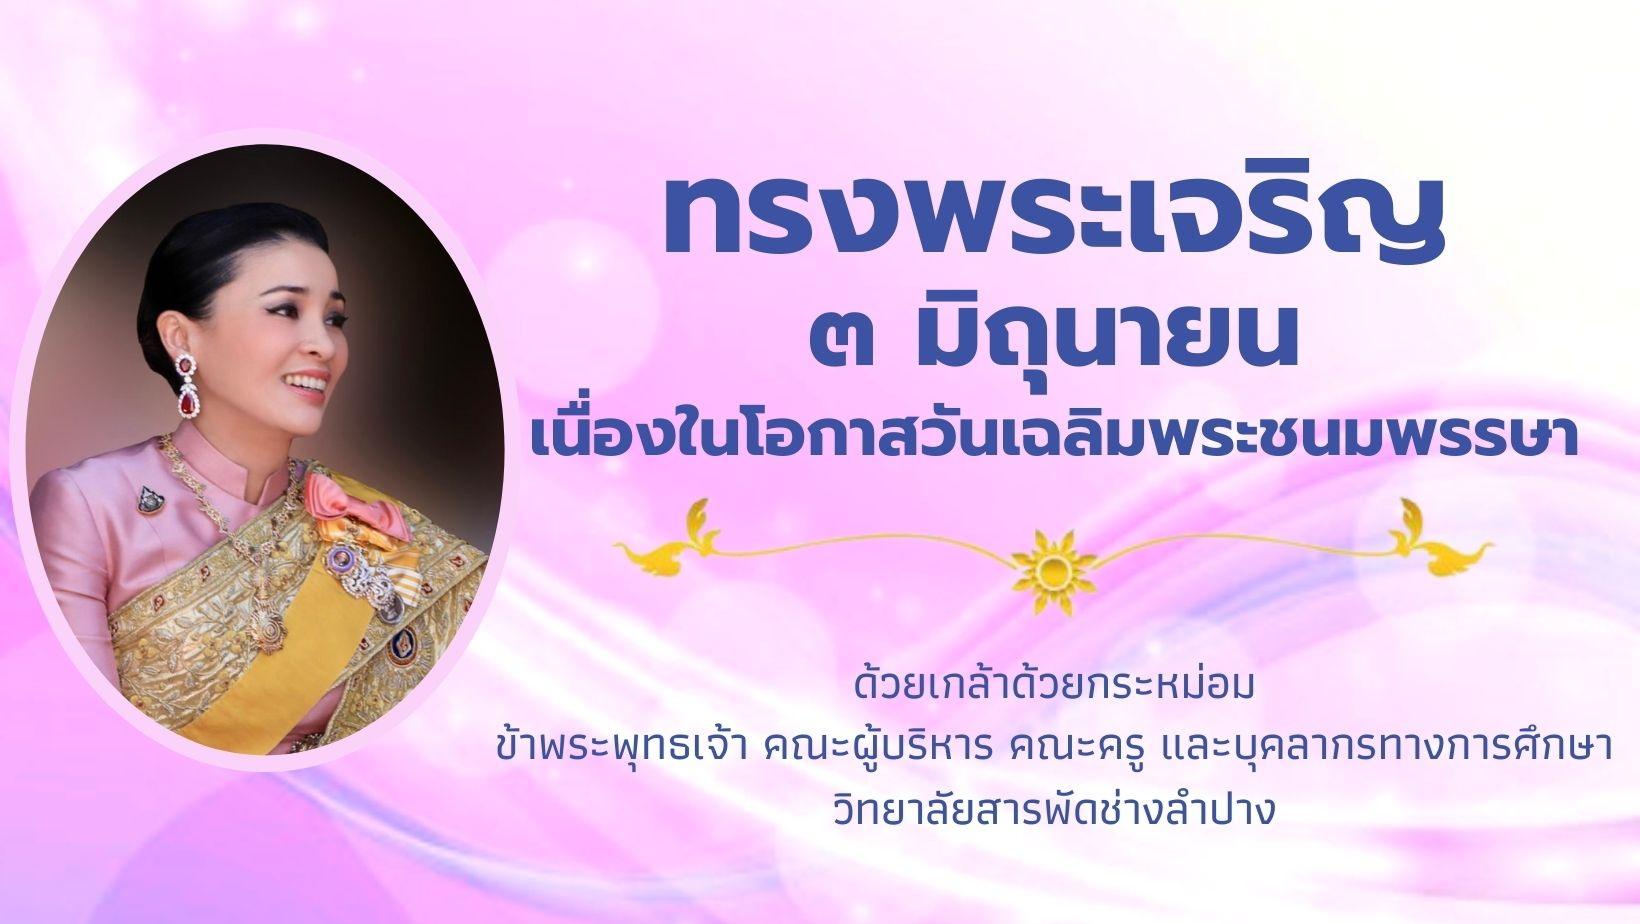
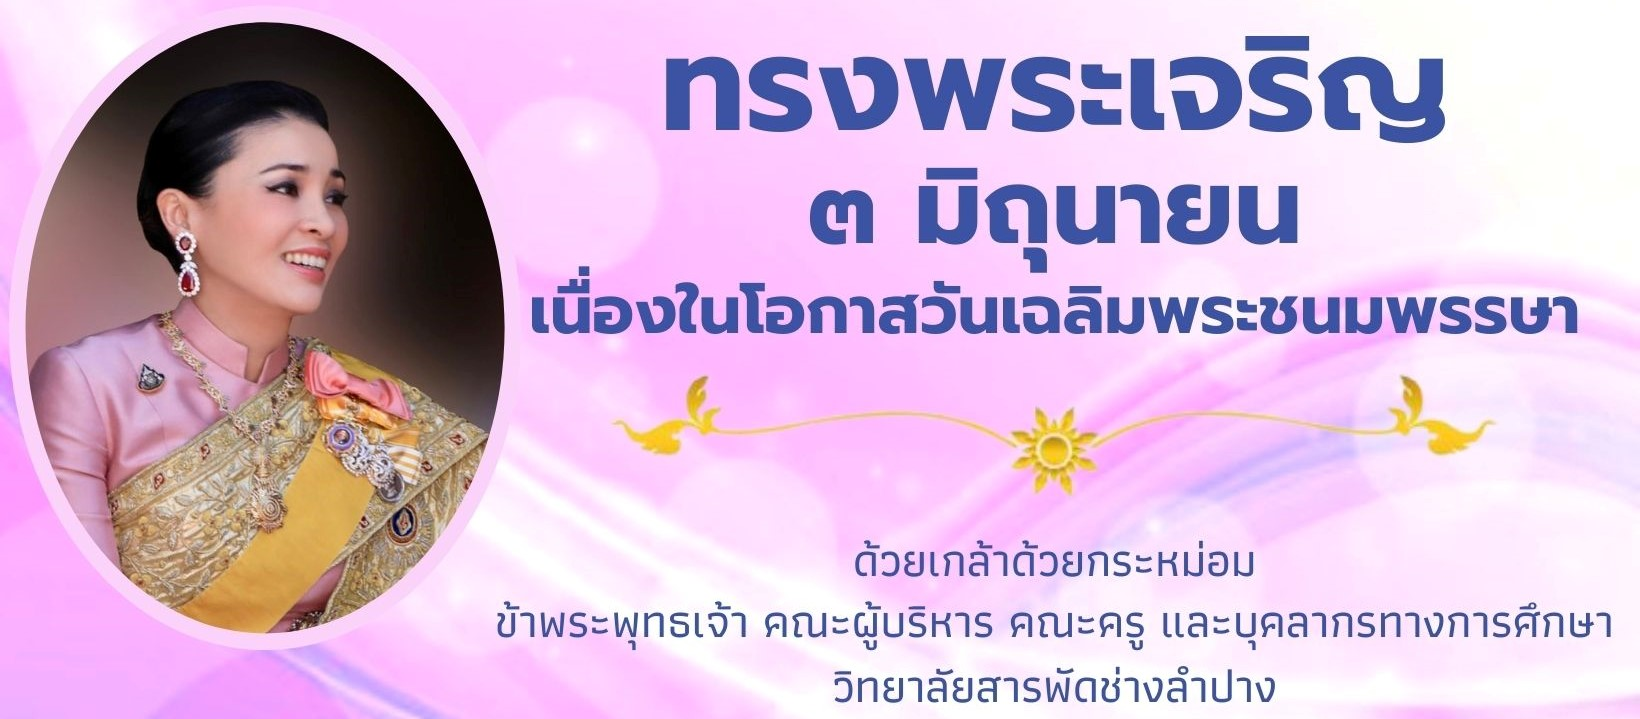
queen

diff --git a/index.html b/index.html
@@ -160,6 +160,10 @@
         <div class="carousel-item">
           <img src="img/images.jpg" alt="Chicago" width="100%" height="10%">
         </div>
+
+        <div class="carousel-item">
+          <img src="img/3.jpg" alt="Chicago" width="100%" height="10%">
+        </div>
         
       </div>
       
